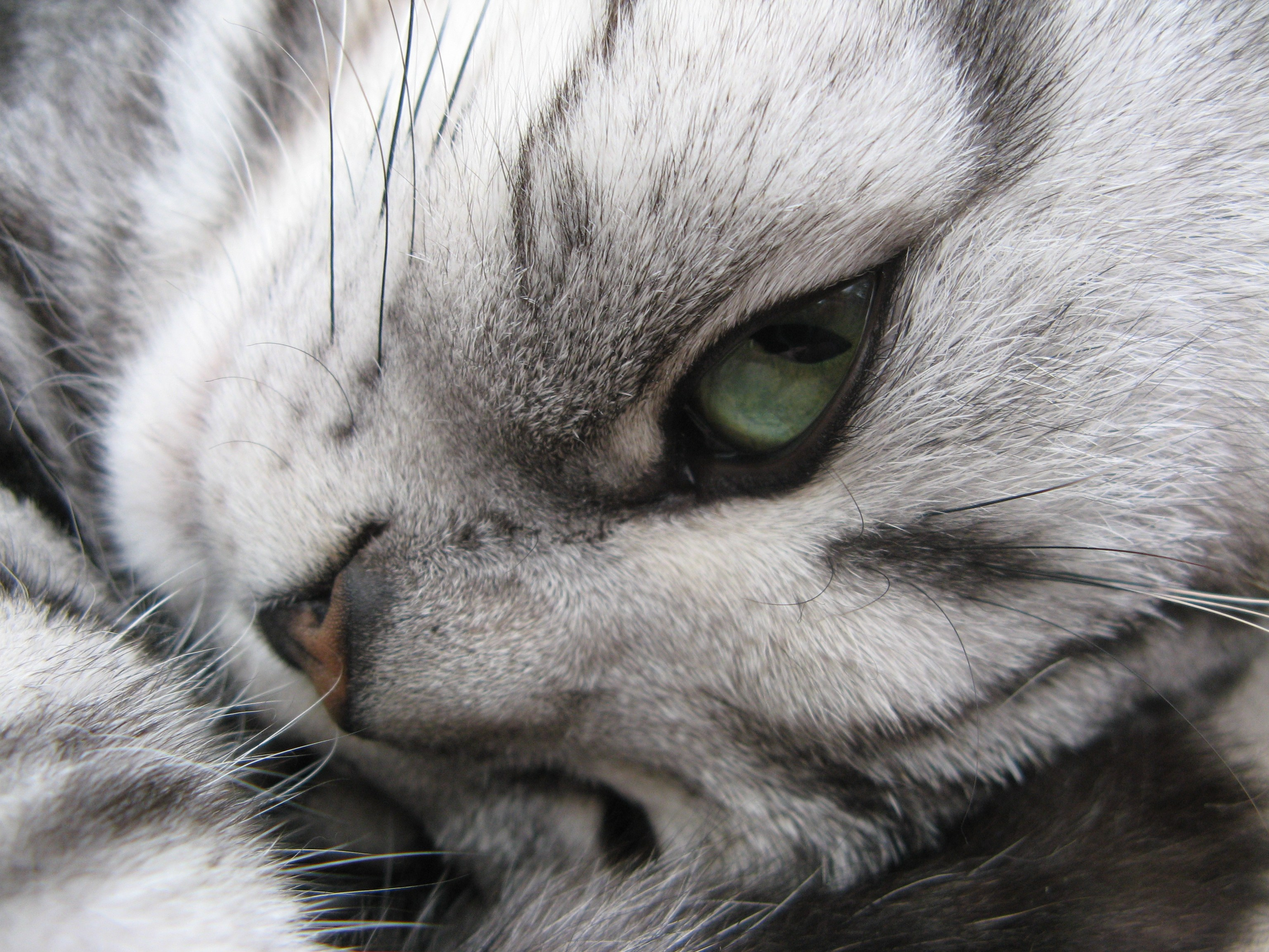
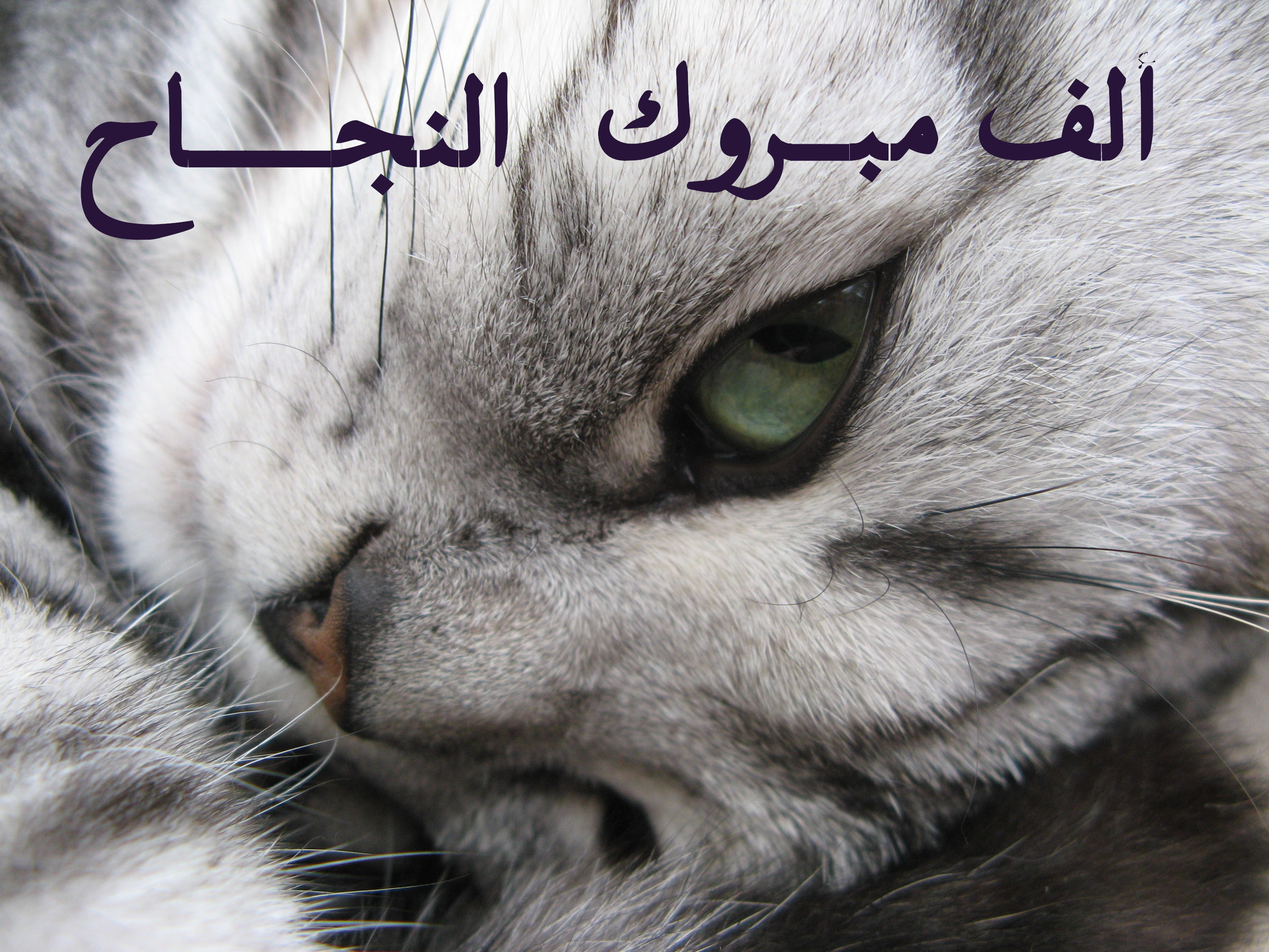
ssS

Changed region(s): [[0.4688, 0.0625, 0.9062, 0.2188], [0.0625, 0.0625, 0.4062, 0.25]]

diff --git a/lib/image_store.dart b/lib/image_store.dart
@@ -49,17 +49,11 @@ class AllImages {
   ];
 
   static const List<String> najah = [
-    'assets/cat2.jpg',
-    'assets/cat3.jpg',
+    'assets/NAJAH1.png',
     'assets/cat4.jpg',
-    'assets/cat5.jpg',
-    'assets/cat6.jpg',
-    'assets/cat7.jpg',
-    'assets/cat2.jpg',
-    'assets/cat3.jpg',
-    'assets/cat4.jpg',
-    'assets/cat5.jpg',
-    'assets/cat6.jpg',
-    'assets/cat7.jpg',
+    'assets/NAJAH1.png',
+    'assets/NAJAH1.png',
+    'assets/NAJAH1.png',
+    'assets/NAJAH1.png',
   ];
 }
